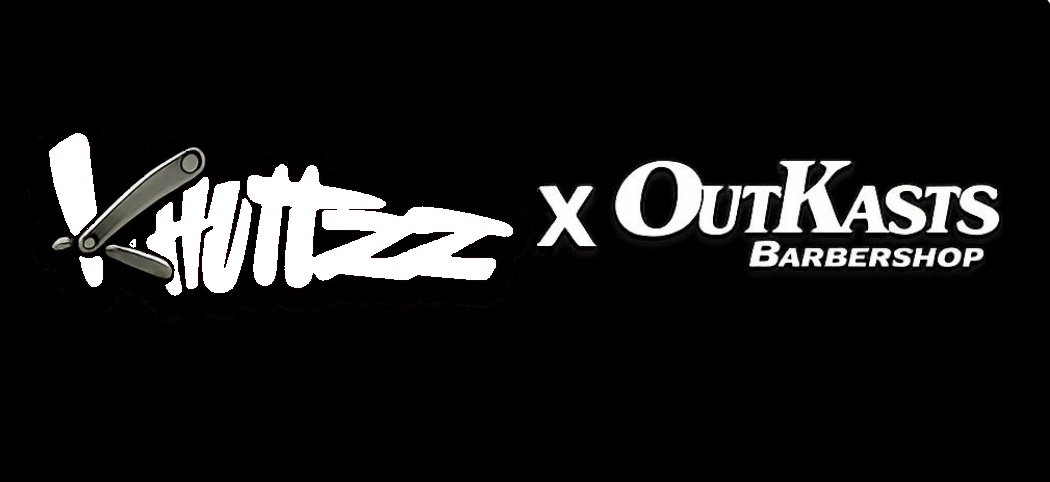
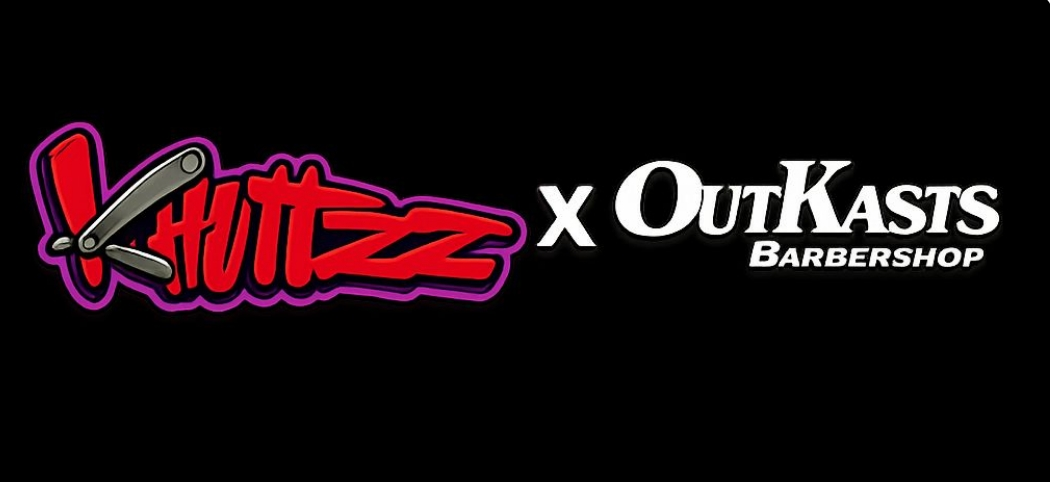
h

Changed region(s): [[0.0, 0.249, 0.5181, 0.6535]]

diff --git a/index.html b/index.html
@@ -16,7 +16,7 @@
     * { box-sizing:border-box; margin:0; padding:0; }
     html,body { width:100%; overflow-x:hidden; background:#000; color:var(--ink); }
     body { font-family:Outfit,system-ui,sans-serif; }
-    img,video { display:block; }
+    img,video { display:block; width:100%; }
     a { color:inherit; text-decoration:none; }
     img[broken],video[broken] { display:none !important; }
 
@@ -24,7 +24,7 @@
       position:fixed; inset:0; z-index:0;
       display:grid; grid-template-columns:1fr 1fr;
     }
-    .wall video { width:100%; height:25vh; object-fit:cover; }
+    .wall video { height:25vh; object-fit:cover; }
     @media (min-width:700px) {
       .wall { grid-template-columns:repeat(4,1fr); }
       .wall video { height:50vh; }
@@ -42,21 +42,13 @@
       padding:calc(8px + env(safe-area-inset-top)) 12px 8px;
       background:#000; border-bottom:3px solid var(--red);
     }
-    .brand-lockup { display:flex; align-items:center; gap:8px; min-width:0; }
-    .brand {
-      height:46px; width:auto; max-width:52vw;
-      object-fit:contain; object-position:left center;
-      filter:invert(1);
-      background:#f3eee6;
-    }
-    .brand-x {
-      font-family:Oswald,sans-serif; letter-spacing:.14em; text-transform:uppercase;
-      font-size:.62rem; color:#fff; white-space:nowrap;
-    }
-    .top nav { display:flex; gap:14px; flex:none; }
+    .brand { height:44px; width:auto; max-width:64vw; object-fit:contain; object-position:left center; }
+    .top nav { display:flex; gap:14px; }
     .top nav a { font-family:Oswald,sans-serif; letter-spacing:.12em; text-transform:uppercase; font-size:.7rem; }
 
-    .hero { height:46vh; min-height:220px; background:transparent; }
+    .hero {
+      height:46vh; min-height:220px; background:transparent;
+    }
     .bar {
       padding:16px 12px; background:#000; border-bottom:3px solid var(--red);
     }
@@ -75,7 +67,7 @@
 
     @media (min-width:800px) {
       .hero { height:58vh; }
-      .brand { height:56px; max-width:42vw; }
+      .brand { height:52px; }
     }
 
     .menu { display:grid; gap:3px; margin-top:14px; }
@@ -142,10 +134,7 @@
   <div class="shade"></div>
   <div class="wrap">
   <header class="top">
-    <a class="brand-lockup" href="index.html" aria-label="KHUTTZZ x OutKasts">
-      <img class="brand" src="assets/logo.png" width="320" height="180" alt="KHUTTZZ" />
-      <span class="brand-x">× OutKasts</span>
-    </a>
+    <img class="brand" src="assets/collab.jpg" width="200" height="89" alt="KHUTTZZ x OutKasts" />
     <nav>
       <a href="#menu">Menu</a>
       <a href="#reviews">Reviews</a>
